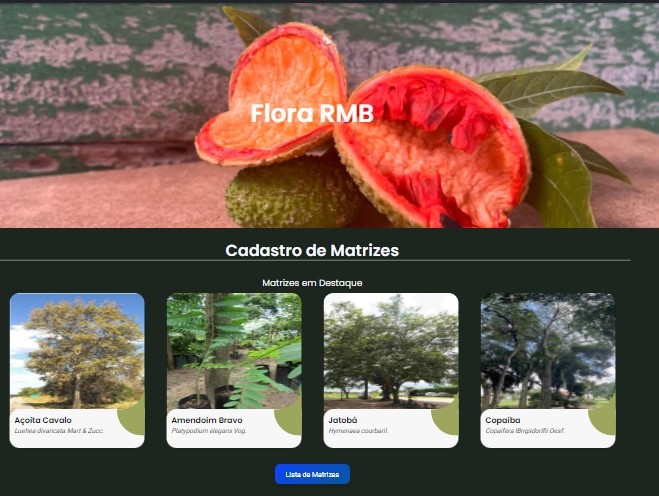
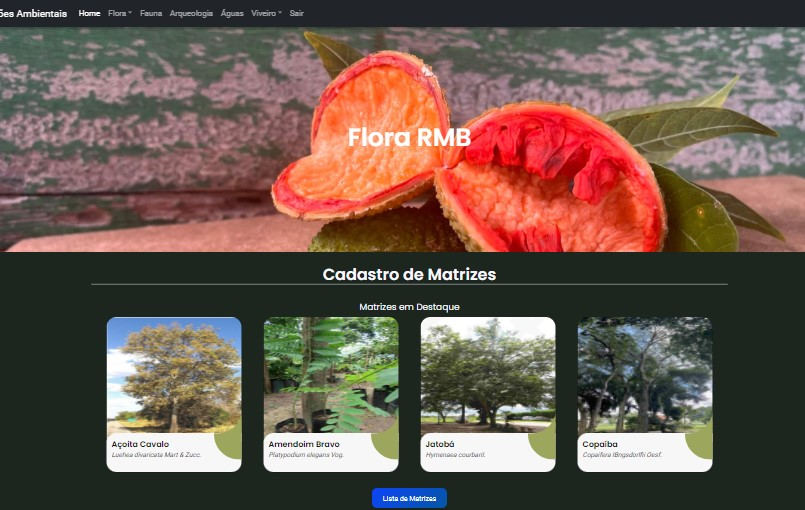
fix site inteiro

diff --git a/src/components/BannerInitial/style.css b/src/components/BannerInitial/style.css
@@ -1,9 +1,9 @@
 .intro-conteudo {
-  background-image: url('../../assets/images/banners/banner-perobaGrande.png');
+  background-image: url('../../assets/images/banners/banner-perobaGrande2.png');
   background-size: cover;
   background-position: center;
   background-repeat: no-repeat;
-  min-height: 450px;
+  min-height: 480px;
 }
 
 .intro-conteudo div h1 {

diff --git a/src/components/BannerInitial/index.js b/src/components/BannerInitial/index.js
@@ -7,8 +7,6 @@ import logoamazul from '../../assets/images/banners/amazul248.png';
 import logocnen from '../../assets/images/banners/cnen248.png';
 import logormb from '../../assets/images/banners/rmb248.png';
 
-import Container from '../Containes';
-import ParallaxImage from '../ParallaxImage';
 export default function BannerInitial() {
   return (
     <>

diff --git a/src/screens/Arqueologia/index.js b/src/screens/Arqueologia/index.js
@@ -23,7 +23,7 @@ export default function Arqueologia() {
   return (
     <div>
       <Header />
-      <ParallaxImage img={Capa}>Sítio Arqueologico</ParallaxImage>
+      <ParallaxImage img={Capa}>Sítio Arqueológico</ParallaxImage>
       <Container>
         <Timeline
           year1="2013"

diff --git a/src/components/ParallaxImage/index.js b/src/components/ParallaxImage/index.js
@@ -11,7 +11,7 @@ const ParallaxImage = ({ img, children }) => {
     >
       <div
         className="d-flex align-items-center justify-content-center p-4 "
-        style={{ height: 450 }}
+        style={{ height: 400 }}
       >
         <h1
           className="font-1-xxl"

diff --git a/src/screens/Flora/Matrizes/matrizes.css b/src/screens/Flora/Matrizes/matrizes.css
@@ -4,7 +4,7 @@
 }
 
 .slider-especie {
-  max-width: 500px;
+  max-width: 400px;
 }
 
 .bg-caption {
